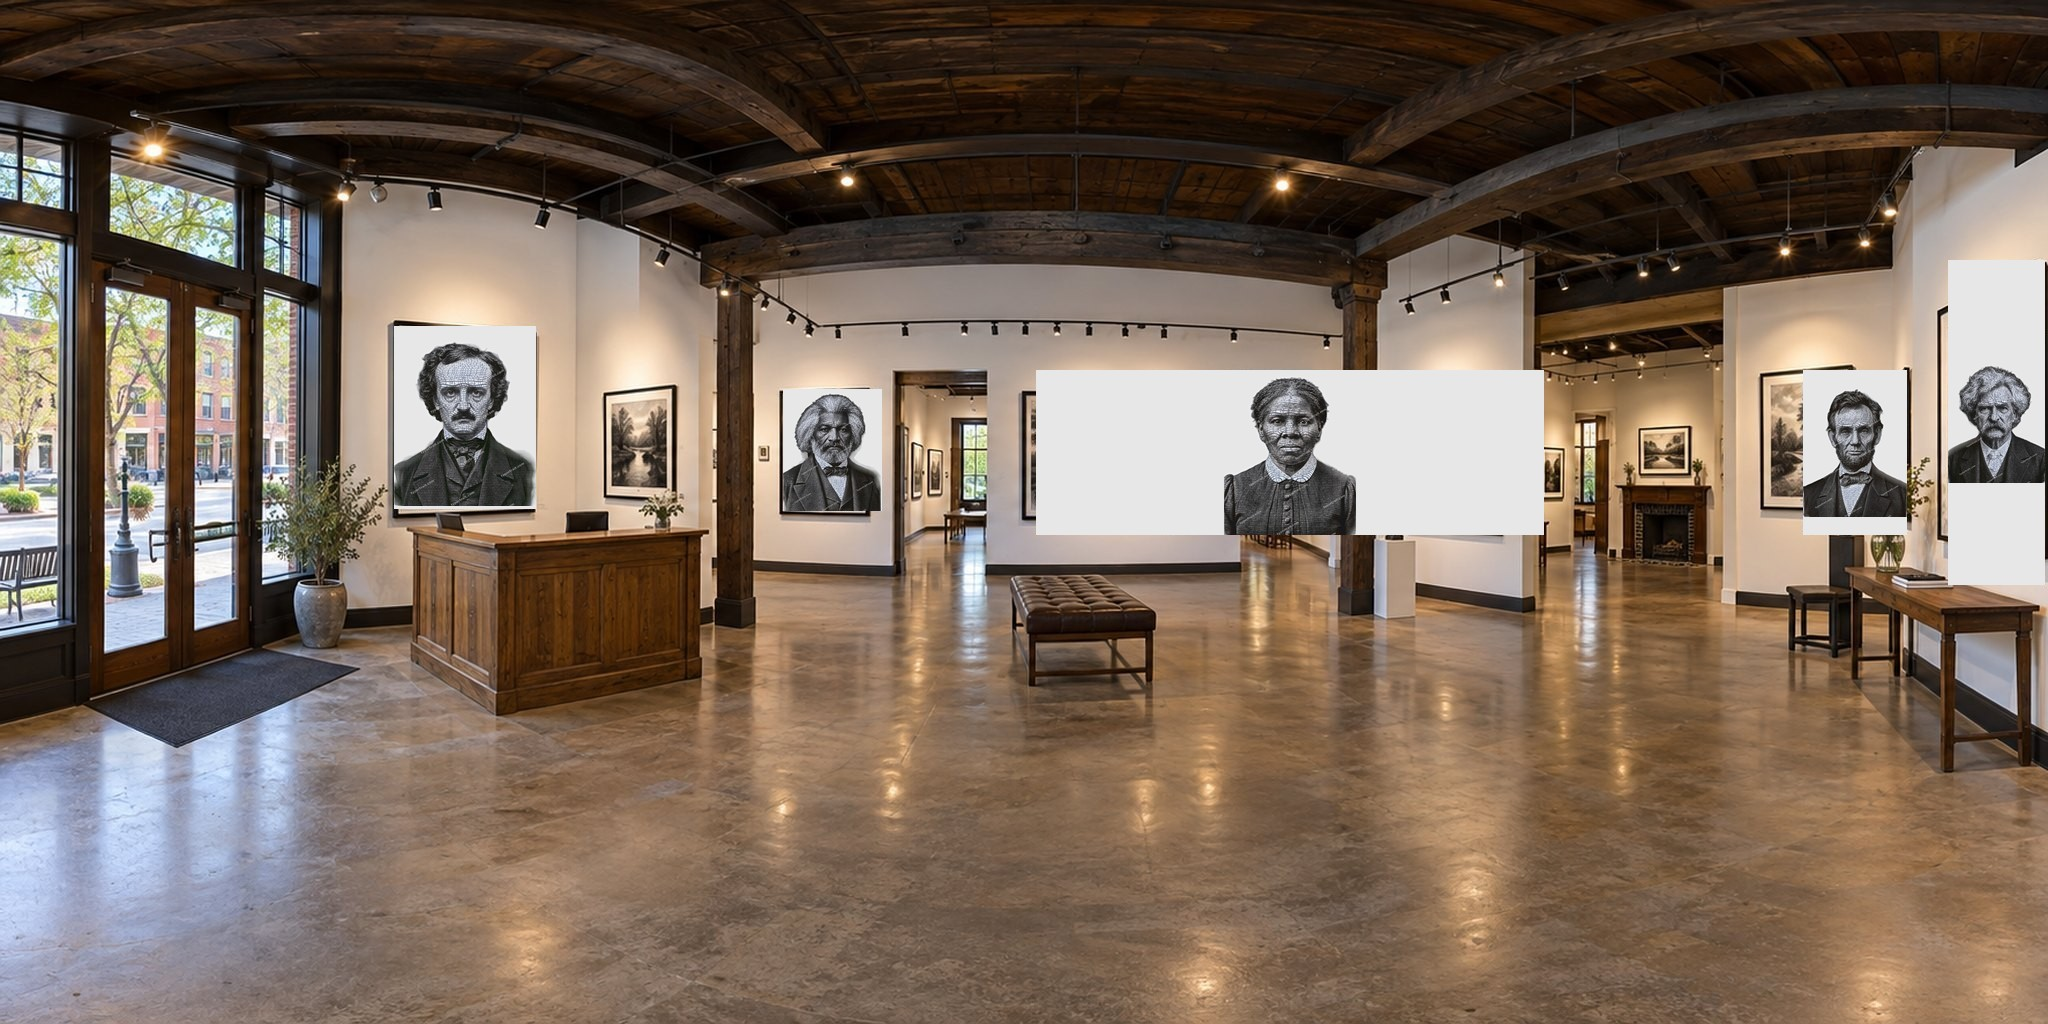
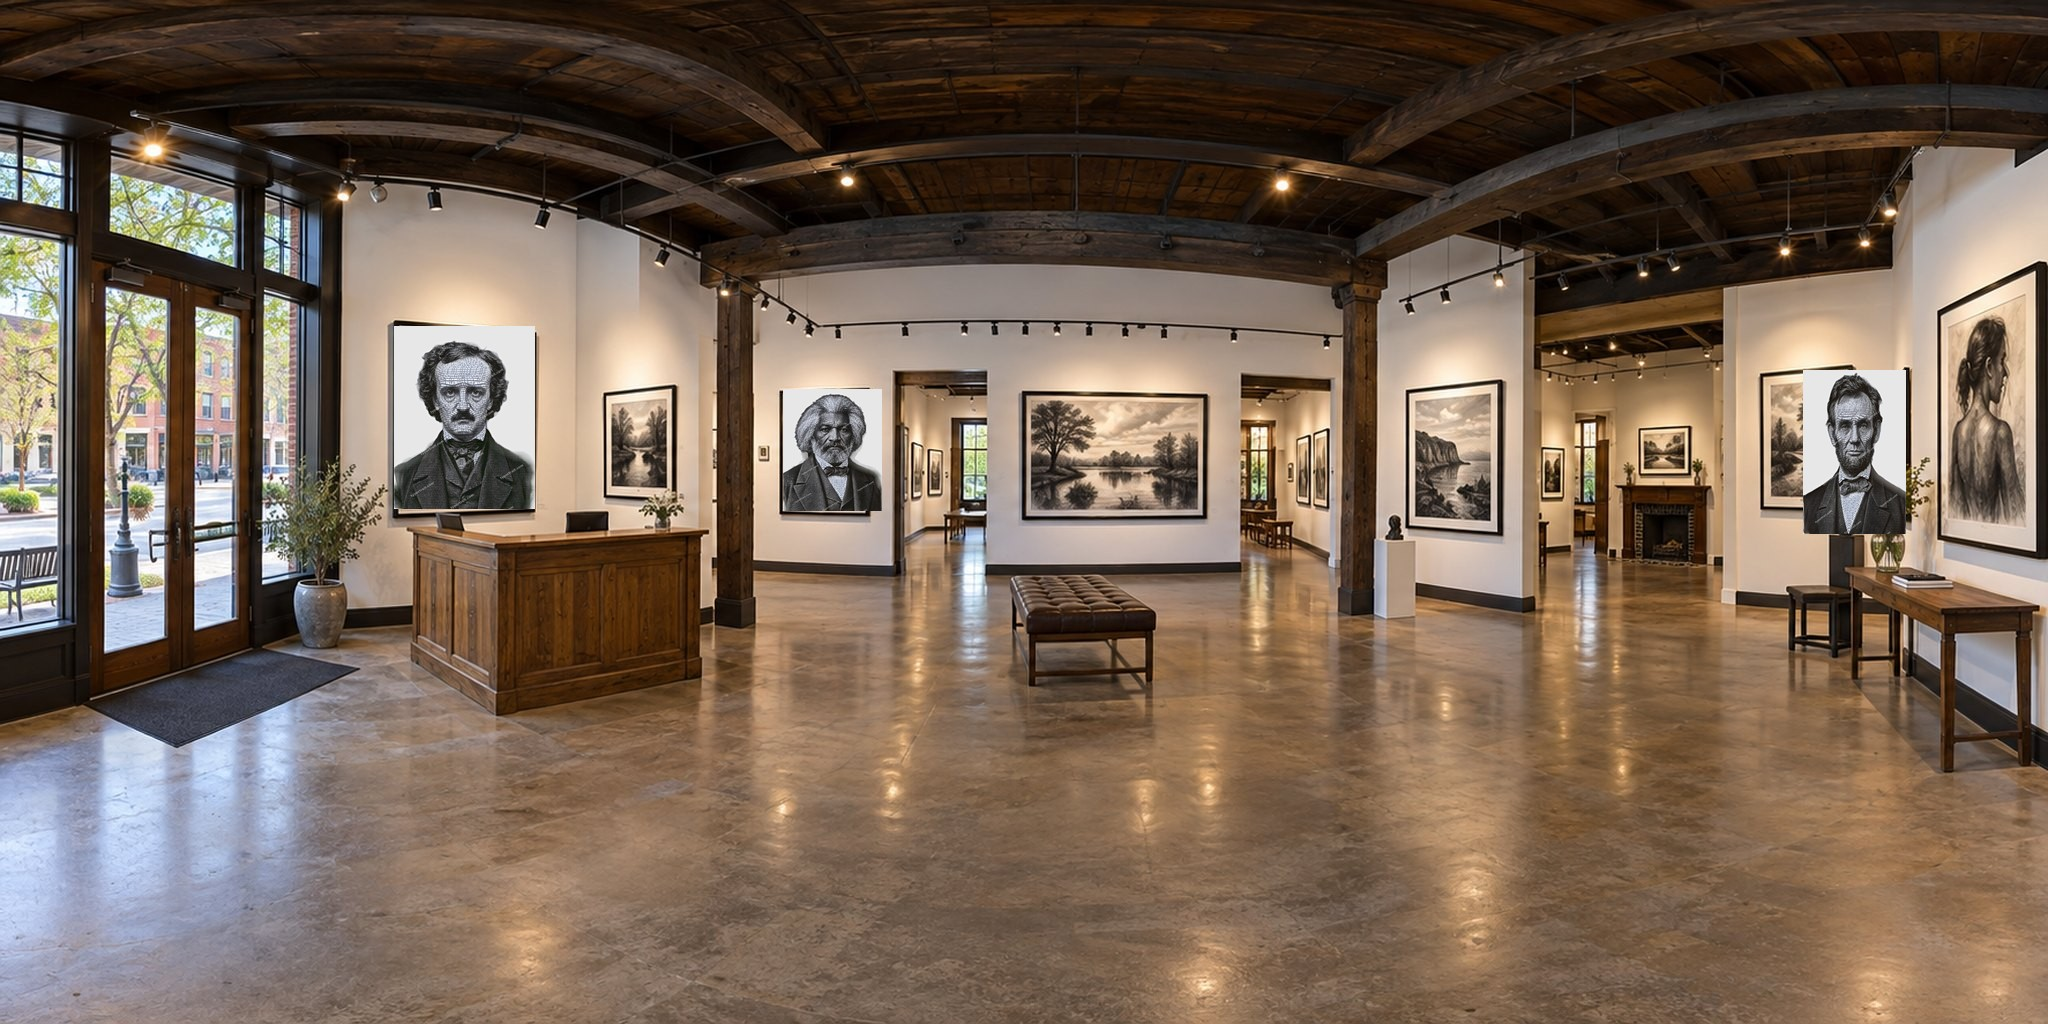
Fix photo tour: only bake into frames that actually fit a portrait's shape
Three prior versions all tried to make EVERY real frame in these photos work
for a portrait, however badly its own shape fit one: fit a smaller box inside
it (left the original art showing around the edges), stretch to fill exactly
(distorted the face on any oddly-shaped frame), or fit at true proportions
and pad the rest with the portrait's own background (no distortion, but on
the more extreme frames -- a wide lake scene, a narrow tall strip -- the
padding was an obvious flat rectangle, still not art hanging on a wall).

The actual fix is upstream of all three: stop trying to fit a portrait into
a frame whose real shape doesn't suit one. ops/photoscene-composite.py's
REGIONS now only lists frames within a tight aspect-ratio tolerance of the
portraits' own 4:5 proportions (an assertion enforces this, so a badly-suited
region can't sneak back in unnoticed) -- a handful of genuinely landscape- or
extreme-portrait-shaped frames are simply left completely untouched, real
photographed art unmodified. 14 of 23 catalog items get a natural-looking
baked spot across the three rooms this way; the rest still sell fine from
the grid and the walkthrough corridor.

Also fixed a real workflow bug this surfaced: the compositing script was
reading its "original" source panoramas from static/gallery/photoscene/,
which had already been committed pre-baked in earlier rounds -- so removing
a region from REGIONS left that spot showing the STALE previous bake instead
[…]

diff --git a/typography_engine/static/gallery.html b/typography_engine/static/gallery.html
@@ -461,10 +461,13 @@ let raycaster, pointerNDC;   // built in initRenderer, once THREE is actually lo
 // -- so ours sits inside the SAME real frame, mat and lighting as whatever used to
 // hang there. What's built at runtime is just an invisible click/caption target at
 // each baked position, for navigation -- there is no visible mesh over the art itself.
-// Each photo can only show as many portraits as it has real frames worth pasting into
-// (19 of 23 across all three rooms) -- the remaining 4 still sell fine from the grid
-// and the corridor, they just don't have a natural-looking wall spot in these photos.
-const PHOTO_BAKE_VERSION = 4;    // bump whenever the baked panorama JPGs are regenerated
+// Each photo can only show a portrait on a real frame whose own shape is already
+// close to a portrait's -- forcing one onto a landscape- or extreme-portrait-shaped
+// frame (stretching it, or padding the leftover space) always looked like a visible
+// patch rather than art actually hanging there, so those frames are simply left
+// untouched. 14 of 23 catalog items have a natural-looking spot across the three
+// rooms this way; the rest still sell fine from the grid and the corridor.
+const PHOTO_BAKE_VERSION = 5;    // bump whenever the baked panorama JPGs are regenerated
 const PHOTO_ROOM_RADIUS = 900;   // the panorama sphere
 const PHOTO_FRAME_RADIUS = 650;  // depth of the invisible click targets (matches bake)
 // Yaw values below are pre-corrected for THREE's actual SphereGeometry UV convention
@@ -476,29 +479,24 @@ const PHOTO_FRAME_RADIUS = 650;  // depth of the invisible click targets (matche
 // before this was calibrated, and easy to miss since it looks approximately plausible.
 const PHOTO_ROOMS = [
   { name:"The Entrance", src:"/static/gallery/photoscene/entrance.jpg", slots:[
-    {id:"edgar-allan-poe", yaw:-2.9974, pitch:0.2899, w:284.4, h:358.7},
-    {id:"frederick-douglass", yaw:2.1583, pitch:0.1902, w:187.9, h:235.9},
-    {id:"harriet-tubman", yaw:0.7547, pitch:0.1825, w:254.4, h:320.3},
-    {id:"abraham-lincoln", yaw:-0.9787, pitch:0.1825, w:207.9, h:261.2},
-    {id:"mark-twain", yaw:-1.4128, pitch:0.2746, w:194.5, h:244.2},
+    {id:"edgar-allan-poe", yaw:-2.9974, pitch:0.2899, w:285.6, h:375.5},
+    {id:"frederick-douglass", yaw:2.1583, pitch:0.1902, w:198.3, h:246.6},
+    {id:"abraham-lincoln", yaw:-0.9787, pitch:0.1825, w:207.9, h:335.2},
   ]},
   { name:"The Main Gallery", src:"/static/gallery/photoscene/main-room.jpg", slots:[
-    {id:"susan-b-anthony", yaw:-2.1844, pitch:0.2132, w:305.4, h:385.7},
-    {id:"walt-whitman", yaw:-3.1278, pitch:0.2362, w:335.2, h:424.2},
-    {id:"sojourner-truth", yaw:2.5802, pitch:0.1979, w:227.2, h:285.6},
-    {id:"theodore-roosevelt", yaw:0.0399, pitch:0.2899, w:365.3, h:463.5},
-    {id:"nikola-tesla", yaw:-0.5415, pitch:0.2209, w:256.3, h:322.7},
-    {id:"ulysses-s-grant", yaw:-1.0554, pitch:0.2899, w:345.2, h:437.2},
+    {id:"susan-b-anthony", yaw:-2.1844, pitch:0.2132, w:305.4, h:479.4},
+    {id:"walt-whitman", yaw:-3.1278, pitch:0.2362, w:335.2, h:468.7},
+    {id:"sojourner-truth", yaw:2.5802, pitch:0.1979, w:227.2, h:355.3},
+    {id:"theodore-roosevelt", yaw:0.0399, pitch:0.2899, w:365.3, h:500.8},
+    {id:"nikola-tesla", yaw:-0.5415, pitch:0.2209, w:256.3, h:345.2},
+    {id:"ulysses-s-grant", yaw:-1.0554, pitch:0.2899, w:345.2, h:500.8},
   ]},
   { name:"The Rear Salon", src:"/static/gallery/photoscene/rear-room.jpg", slots:[
-    {id:"booker-t-washington", yaw:-1.9819, pitch:0.2669, w:431.2, h:550.2},
-    {id:"sitting-bull", yaw:-2.6446, pitch:0.2439, w:207.9, h:261.2},
-    {id:"geronimo", yaw:2.5525, pitch:0.2025, w:310.1, h:391.7},
-    {id:"clara-barton", yaw:1.2149, pitch:0.1979, w:207.9, h:261.2},
-    {id:"elizabeth-cady-stanton", yaw:0.8084, pitch:0.2056, w:217.6, h:273.4},
-    {id:"charles-darwin", yaw:0.3559, pitch:0.2746, w:188.8, h:236.9},
-    {id:"queen-victoria", yaw:-0.5568, pitch:0.2669, w:437.2, h:558.2},
-    {id:"john-brown", yaw:-1.3438, pitch:0.2362, w:281.7, h:355.3},
+    {id:"booker-t-washington", yaw:-1.9819, pitch:0.2669, w:529.0, h:577.7},
+    {id:"geronimo", yaw:2.5525, pitch:0.2025, w:321.2, h:410.3},
+    {id:"clara-barton", yaw:1.2149, pitch:0.1979, w:207.9, h:375.5},
+    {id:"elizabeth-cady-stanton", yaw:0.8084, pitch:0.2056, w:217.6, h:385.7},
+    {id:"queen-victoria", yaw:-0.5568, pitch:0.2669, w:437.2, h:669.9},
   ]},
 ];
 let photoRoom = 0, photoYaw = 0, photoPitch = 0, photoFov = 66;

diff --git a/typography_engine/ops/photoscene-composite.py b/typography_engine/ops/photoscene-composite.py
@@ -6,19 +6,16 @@ whatever used to hang there -- see the "Photo Tour" comment block in gallery.htm
 why (a first version overlaid separate 3D "cards" on top of the photos instead, which
 read as flat stickers pasted onto a photograph, not art actually hanging on a wall).
 
-Run this from a tree where static/gallery/photoscene/*.jpg are still the ORIGINAL,
-un-baked panoramas (git checkout -- static/gallery/photoscene/ first if they've
-already been baked once -- this script pastes destructively, not idempotently, and
-running it twice bakes a portrait on top of an already-baked one). Needs Pillow:
+Always reads its source panoramas from ops/photoscene-originals/*.jpg -- the true,
+never-baked photos as uploaded, kept permanently for exactly this purpose -- and
+writes the result to static/gallery/photoscene/*.jpg, overwriting whatever's there.
+Do NOT "fix" this to read from static/gallery/photoscene/ instead: those get
+committed already-baked, so reading from there bakes a portrait on top of whatever
+was baked there last time rather than on the real photo, and any REGIONS entry
+removed since then silently keeps showing its stale previous bake instead of
+reverting to the true original -- exactly the bug that prompted keeping a separate
+pristine copy in the first place. Needs Pillow:
     python3 ops/photoscene-composite.py
-
-REGIONS below are outer pixel bounding boxes (x0,y0,x1,y1) of real frames in each
-2048x1024 equirectangular photo, hand-measured by cropping+gridding the image and
-reading it off (see conversation history / ask Claude to redo this if the panoramas
-ever change). ITEMS assigns catalog items to regions in order, one list per room --
-there are only as many usable regions as real frames worth pasting into, so a 23-item
-catalog with only 19 good regions leaves the last 4 items unbaked (still sellable from
-the grid and the walkthrough corridor, just without a natural spot in these photos).
 
 After running, paste the printed PHOTO_ROOMS block into gallery.html verbatim (it
 already has the yaw correction applied -- see below) and bump PHOTO_BAKE_VERSION so
@@ -33,6 +30,23 @@ the yaw values it prints are ready to paste straight into gallery.html's PHOTO_R
 do NOT re-derive yaw from pixel position by the "obvious" formula without this
 correction, or captions/click-targets will land near the right neighborhood but not on
 the actual baked portrait, which is exactly what happened here before this was found.
+
+IMPORTANT -- why some real frames are skipped entirely: three earlier versions of this
+script tried to make every real frame in these photos work for a portrait, however
+poorly its own shape fit one, three different ways -- (1) fit a smaller aspect-correct
+box inside the frame: left a border of the frame's ORIGINAL photographed art showing;
+(2) stretch the portrait to fill the frame exactly: fixed that but visibly distorted
+the face on any frame shaped very differently from a portrait; (3) fit the portrait at
+its true aspect and pad the leftover with more of the portrait's own plain background:
+no distortion and no original art showing, but on the more extreme frames the padding
+was a large, flat, obviously-pasted-on rectangle -- still not the real answer. The real
+fix is upstream of all three: REGIONS below only lists frames whose real aspect ratio
+is already close to a portrait's (a tight tolerance band, checked in main()) -- a
+handful of frames in these photos are genuinely landscape- or extreme-portrait-shaped
+(a wide lake scene, a very tall narrow strip) and are simply never assigned a portrait,
+left completely untouched. Trying to force a portrait into a landscape-shaped frame is
+the wrong move regardless of technique; the corresponding catalog items just don't get
+a baked position in these three photos (still sellable from the grid and the corridor).
 """
 import math
 from pathlib import Path
@@ -41,81 +55,57 @@ from PIL import Image
 
 ROOT = Path(__file__).resolve().parent.parent
 ART_DIR = ROOT / "static/gallery/art"
-PANO_DIR = ROOT / "static/gallery/photoscene"
-
-ITEMS = [
-    "edgar-allan-poe", "frederick-douglass", "harriet-tubman", "abraham-lincoln", "mark-twain",
-    "susan-b-anthony", "walt-whitman", "sojourner-truth", "theodore-roosevelt", "nikola-tesla",
-    "ulysses-s-grant", "booker-t-washington", "sitting-bull", "geronimo", "clara-barton",
-    "elizabeth-cady-stanton", "charles-darwin", "queen-victoria", "john-brown", "pt-barnum",
-    "chief-joseph", "emily-dickinson", "robert-e-lee",
-]
+ORIGINALS_DIR = ROOT / "ops/photoscene-originals"   # true, never-baked source photos
+OUT_DIR = ROOT / "static/gallery/photoscene"         # baked result served to visitors
 
 ROOM_NAMES = {"entrance": "The Entrance", "main-room": "The Main Gallery", "rear-room": "The Rear Salon"}
 
+# Outer pixel bounding boxes (x0,y0,x1,y1) of real frames in each 2048x1024
+# equirectangular photo, hand-measured by cropping+gridding the image and reading it
+# off (see conversation history / ask Claude to redo this if the panoramas ever
+# change), each explicitly paired with the catalog item id that goes there -- NOT
+# matched positionally against a separate items list, so dropping a region (see
+# module docstring) can never silently shift every later item onto the wrong frame.
 REGIONS = {
     "entrance": [
-        (390, 320, 540, 515),
-        (780, 385, 885, 515),
-        (1020, 365, 1560, 540),
-        (1800, 365, 1910, 540),
-        (1945, 250, 2048, 595),
+        ("edgar-allan-poe", (390, 320, 540, 515)),
+        ("frederick-douglass", (780, 385, 885, 515)),
+        ("abraham-lincoln", (1800, 365, 1910, 540)),
     ],
     "main-room": [
-        (120, 320, 280, 565),
-        (420, 315, 595, 555),
-        (635, 355, 755, 540),
-        (1428, 290, 1618, 545),
-        (1645, 350, 1780, 530),
-        (1790, 290, 1970, 545),
+        ("susan-b-anthony", (120, 320, 280, 565)),
+        ("walt-whitman", (420, 315, 595, 555)),
+        ("sojourner-truth", (635, 355, 755, 540)),
+        ("theodore-roosevelt", (1428, 290, 1618, 545)),
+        ("nikola-tesla", (1645, 350, 1780, 530)),
+        ("ulysses-s-grant", (1790, 290, 1970, 545)),
     ],
     "rear-room": [
-        (0, 280, 268, 570),
-        (295, 300, 405, 565),
-        (620, 340, 788, 552),
-        (1085, 350, 1195, 545),
-        (1215, 345, 1330, 545),
-        (1370, 300, 1470, 545),
-        (1605, 260, 1830, 590),
-        (1900, 280, 2048, 590),
+        ("booker-t-washington", (0, 280, 268, 570)),
+        ("geronimo", (620, 340, 788, 552)),
+        ("clara-barton", (1085, 350, 1195, 545)),
+        ("elizabeth-cady-stanton", (1215, 345, 1330, 545)),
+        ("queen-victoria", (1605, 260, 1830, 590)),
     ],
 }
 
 W, H = 2048, 1024
 RADIUS = 650  # matches PHOTO_FRAME_RADIUS in gallery.html
-
-
-# The portrait PNGs are a bust on a plain, near-uniform backdrop -- sampled from a
-# corner pixel, consistent across the whole catalog (checked several at (3,3)).
-ART_BG = (231, 231, 231)
+ART_ASPECT = 900 / 1125  # w/h of the source portrait PNGs (0.8)
+# Regions must already be within this ratio of the portrait's own aspect (checked by
+# an assertion in main(), not silently handled) -- see module docstring for why a
+# region outside it is dropped from REGIONS instead of forced to fit some other way.
+ASPECT_TOLERANCE = (0.55, 1.05)
 
 
 def inner_box(x0, y0, x1, y1):
     """The region minus a hairline margin for the real frame's own inner edge -- the
-    area to fully replace."""
+    area to fully replace. A small, mild stretch to exactly this box is the ENTIRE
+    story now that REGIONS only lists frames within ASPECT_TOLERANCE of a portrait's
+    own shape -- no padding, no distortion, and the frame's real photographed border
+    and mat (just outside this box) stay as the actual visible frame."""
     margin_x, margin_y = (x1 - x0) * 0.03, (y1 - y0) * 0.03
     return x0 + margin_x, y0 + margin_y, x1 - margin_x, y1 - margin_y
-
-
-def fit_on_own_background(art, bw, bh):
-    """Resize the portrait to COVER the region at its own true aspect ratio (never
-    stretched or cropped into the subject) and place it centered on a canvas of the
-    art's own backdrop color, sized to the full region. Two earlier approaches both
-    replaced less than the whole region: fitting a smaller aspect-correct box inside
-    it left the ORIGINAL photographed art showing around the edges; stretching to fill
-    the region completely fixed that but visibly distorted the face on any frame whose
-    aspect ratio was far from the portrait's. This replaces the ENTIRE region every
-    time, at the portrait's real proportions every time -- the "leftover" space (when
-    the frame's own shape doesn't match a portrait) is filled with more of the
-    portrait's OWN plain background, not the wall's, not a foreign texture, so it
-    reads as this piece being mounted larger/smaller, never as a patch or a crop."""
-    aw, ah = art.size
-    scale = min(bw / aw, bh / ah)
-    rw, rh = max(1, round(aw * scale)), max(1, round(ah * scale))
-    resized = art.resize((rw, rh), Image.LANCZOS)
-    canvas = Image.new("RGB", (bw, bh), ART_BG)
-    canvas.paste(resized, ((bw - rw) // 2, (bh - rh) // 2))
-    return canvas
 
 
 def yaw_pitch(px, py):
@@ -134,20 +124,23 @@ def world_size(bx0, by0, bx1, by1):
 
 
 def main():
-    idx = 0
+    total = 0
     js_lines = ["const PHOTO_ROOMS = ["]
     for room, regions in REGIONS.items():
-        im = Image.open(PANO_DIR / f"{room}.jpg").convert("RGB")
+        im = Image.open(ORIGINALS_DIR / f"{room}.jpg").convert("RGB")
         js_lines.append(f'  {{ name:"{ROOM_NAMES[room]}", src:"/static/gallery/photoscene/{room}.jpg", slots:[')
-        for (x0, y0, x1, y1) in regions:
-            it = ITEMS[idx]; idx += 1
+        for (it, (x0, y0, x1, y1)) in regions:
+            aspect = (x1 - x0) / (y1 - y0)
+            lo, hi = ASPECT_TOLERANCE
+            assert lo <= aspect <= hi, (
+                f"{room}/{it}: region aspect {aspect:.2f} outside tolerance {ASPECT_TOLERANCE} -- "
+                f"drop this region from REGIONS rather than forcing a fit (see module docstring)"
+            )
+            total += 1
             bx0, by0, bx1, by1 = inner_box(x0, y0, x1, y1)
-            bx0i, by0i, bx1i, by1i = (int(round(v)) for v in (bx0, by0, bx1, by1))
-            bw, bh = bx1i - bx0i, by1i - by0i
-
-            art = Image.open(ART_DIR / f"{it}.png").convert("RGB")
-            replacement = fit_on_own_background(art, bw, bh)
-            im.paste(replacement, (bx0i, by0i))
+            bw, bh = int(round(bx1 - bx0)), int(round(by1 - by0))
+            art = Image.open(ART_DIR / f"{it}.png").convert("RGB").resize((bw, bh), Image.LANCZOS)
+            im.paste(art, (int(round(bx0)), int(round(by0))))
             yaw, pitch = yaw_pitch((bx0 + bx1) / 2, (by0 + by1) / 2)
             ww, wh = world_size(bx0, by0, bx1, by1)
             js_lines.append(
@@ -155,11 +148,11 @@ def main():
                 f'w:{round(ww, 1)}, h:{round(wh, 1)}}},'
             )
         js_lines.append("  ]},")
-        im.save(PANO_DIR / f"{room}.jpg", quality=90)
+        im.save(OUT_DIR / f"{room}.jpg", quality=90)
         print(f"{room}: baked {len(regions)} portraits")
     js_lines.append("];")
 
-    print(f"\nTOTAL ITEMS USED: {idx} of {len(ITEMS)}\n")
+    print(f"\nTOTAL BAKED: {total}\n")
     print("\n".join(js_lines))
 
 
